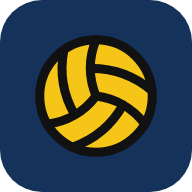
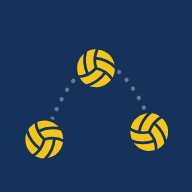
Tres Tocs: nom, logotip, icones i pantalla d'entrada
Claude-Session: https://claude.ai/code/session_01RVGR982t8UzcpXoF2STK5Y

diff --git a/index.html b/index.html
@@ -3,7 +3,7 @@
 <head>
 <meta charset="utf-8">
 <meta name="viewport" content="width=device-width, initial-scale=1, viewport-fit=cover">
-<title>Vòlei 26-27</title>
+<title>Tres Tocs</title>
 <meta name="theme-color" content="#14325a">
 <link rel="manifest" href="manifest.json">
 <link rel="preconnect" href="https://fonts.googleapis.com"><link rel="preconnect" href="https://fonts.gstatic.com" crossorigin>
@@ -42,7 +42,7 @@ body { font: 16px/1.5 Barlow, system-ui, -apple-system, "Segoe UI", Roboto, sans
 header { position: sticky; top: 0; z-index: 5; background: linear-gradient(120deg, #14325a 0%, #0c2340 70%); color: #fff; padding: 10px 14px; padding-top: max(10px, env(safe-area-inset-top)); display: flex; align-items: center; gap: 8px; box-shadow: inset 0 -4px 0 var(--accent); overflow: hidden; }
 header::after { content: ''; position: absolute; right: -26px; top: -30px; width: 110px; height: 110px; border-radius: 50%; border: 10px solid rgba(255,255,255,.06); box-shadow: inset 18px 0 0 -8px rgba(255,255,255,.05); pointer-events: none; }
 header h1 { font: 800 22px/1.1 var(--head); text-transform: uppercase; letter-spacing: .03em; margin: 0; flex: 1; display: flex; align-items: center; gap: 8px; min-width: 0; white-space: nowrap; overflow: hidden; text-overflow: ellipsis; }
-header h1 .ball { flex: none; width: 28px; height: 28px; }
+header h1 .ball { flex: none; width: 30px; height: 30px; }
 header button { background: rgba(255,255,255,.1); border: 0; color: #fff; font-size: 20px; width: 40px; height: 40px; border-radius: 12px; padding: 0; cursor: pointer; display: grid; place-items: center; position: relative; z-index: 1; }
 header button:active { background: rgba(255,255,255,.22); }
 header button[hidden] { display: none; }
@@ -620,6 +620,9 @@ details.plega.entl .list .card { border: 1px solid var(--line); padding: 10px 12
 /* comptes */
 .entra { text-align: center; padding: 28px 18px; margin-top: 20px; }
 .entra .ball { width: 64px; height: 64px; margin-bottom: 6px; }
+.entralogo { width: 96px; height: 96px; border-radius: 22px; box-shadow: 0 8px 24px rgba(20,50,90,.25); margin: 4px auto 10px; display: block; }
+.entra .marca { font: 800 34px/1 var(--head); letter-spacing: .5px; color: var(--ink); text-transform: uppercase; }
+.entra .lema { margin: 4px 0 14px; color: var(--muted); font-size: 15px; }
 .entra h2 { margin: 4px 0; }
 .gbtn { display: inline-flex; align-items: center; gap: 10px; padding: 12px 20px !important; font-size: 16px; }
 .gbtn b { background: #fff; color: #4285f4; width: 24px; height: 24px; border-radius: 50%; display: grid; place-items: center; font: 800 15px/1 Arial, sans-serif; }
@@ -692,7 +695,7 @@ iframe.fotos { width: 100%; height: 70vh; border: 0; border-radius: 12px; backgr
 <body>
 <header>
   <button id="back" aria-label="Enrere" hidden>‹</button>
-  <h1><svg class="ball" viewBox="0 0 24 24" fill="none" stroke="#111" stroke-width="1.7" stroke-linecap="round" stroke-linejoin="round"><circle cx="12" cy="12" r="10" fill="#f5c518"/><path d="M11.1 7.1a16.55 16.55 0 0 1 10.9 4"/><path d="M12 12a12.6 12.6 0 0 1-8.7 5"/><path d="M16.8 13.6a16.55 16.55 0 0 1-9 7.5"/><path d="M20.7 17a12.8 12.8 0 0 0-8.7-5 13.3 13.3 0 0 1 0-10"/><path d="M6.3 3.8a16.55 16.55 0 0 0 1.9 11.5"/></svg><span id="title">Vòlei 26-27</span></h1>
+  <h1><img class="ball logo" src="marca.svg" alt=""><span id="title">Tres Tocs</span></h1>
   <button id="tbtn" aria-label="Cronòmetre" onclick="timerToggle()">⏱</button>
   <button aria-label="Configuració" onclick="location.hash='#/config'">⚙</button>
 </header>
@@ -1173,7 +1176,8 @@ const ORIT = { teu: 'Teu', modificat: 'Modificat', claude: 'De Claude', estandar
 function viewEntra() {
   const inv = store.get('volei.invitacio', null);
   return `<div class="entra card">
-    <svg class="ball" viewBox="0 0 24 24" fill="none" stroke="#111" stroke-width="1.7" stroke-linecap="round" stroke-linejoin="round"><circle cx="12" cy="12" r="10" fill="#f5c518"/>${BALLP.map(d => `<path d="${d}"/>`).join('')}</svg>
+    <img class="entralogo" src="icon.svg" alt="">
+    <div class="marca">Tres Tocs</div><p class="lema">Entrena, juga i creix en equip.</p>
     <h2>${inv ? 'T\'han convidat a un equip' : 'Benvingut!'}</h2>
     <p class="meta">${inv ? 'Entra amb el teu compte de Google per acceptar la invitació.' : 'Entra amb el teu compte de Google per veure els teus equips.'}</p>
     <button class="btn primary gbtn" onclick="entra()"><b>G</b> Entra amb Google</button>
@@ -1320,7 +1324,7 @@ async function dibuixaPartits() {
   pilota(x, 120, 130, 62);
   x.textBaseline = 'alphabetic'; x.textAlign = 'left';
   x.fillStyle = '#fff'; x.font = `800 112px ${F}`; x.fillText('PROPERS PARTITS', 205, 168);
-  x.fillStyle = '#f5c518'; x.font = `700 40px ${F}`; x.fillText(((club() || 'Vòlei') + ' temporada ' + tempNom(TEMP)).toUpperCase(), 210, 222);
+  x.fillStyle = '#f5c518'; x.font = `700 40px ${F}`; x.fillText(((club() || 'Tres Tocs') + ' temporada ' + tempNom(TEMP)).toUpperCase(), 210, 222);
   x.fillStyle = '#f5c518'; x.fillRect(60, HEAD - 34, 140, 8);
   // un partit per fila
   // equips (el local primer); la mateixa mida de lletra a totes les files
@@ -3223,9 +3227,9 @@ function pintaPantalla() {
   if (!D) return;
   let [r, arg] = location.hash.replace(/^#\/?/, '').split('/');
   if (r === 'dimarts' || r === 'dijous' || r === 'f') r = 'entrenos';   // enllaços antics (abans hi havia una pestanya per a dimarts i una per a dijous)
-  let html, tab = 'inici', title = (Object.keys(grups()).length > 1 ? gcfg().nom : 'Vòlei') + ' ' + tempNom(TEMP);
+  let html, tab = 'inici', title = (Object.keys(grups()).length > 1 ? gcfg().nom : club() || 'Tres Tocs') + ' ' + tempNom(TEMP);
   // sense equip, o amb una invitació per acceptar i sense compte: pantalla d'entrada
-  if (!USR && (NOMES_COMPTES || (r !== 'config' && (!CLAU || store.get('volei.invitacio', null))))) { html = viewEntra(); title = 'Vòlei'; }
+  if (!USR && (NOMES_COMPTES || (r !== 'config' && (!CLAU || store.get('volei.invitacio', null))))) { html = viewEntra(); title = 'Tres Tocs'; }
   else if (USR && (!CLAU || (MEM && !rolActual() && (r !== 'config' || !Object.values(MEM.rols || {}).some(Boolean))))) { html = sensePermis(); }
   else if (esFam()) { html = r === 'fotos' ? viewFotos(arg) : r === 'config' ? viewConfigFam() : viewFamilia(); tab = ''; if (r === 'fotos') title = 'Fotos'; }
   else if (r === 'fotos') { html = viewFotos(arg); tab = 'partits'; title = 'Fotos'; }
